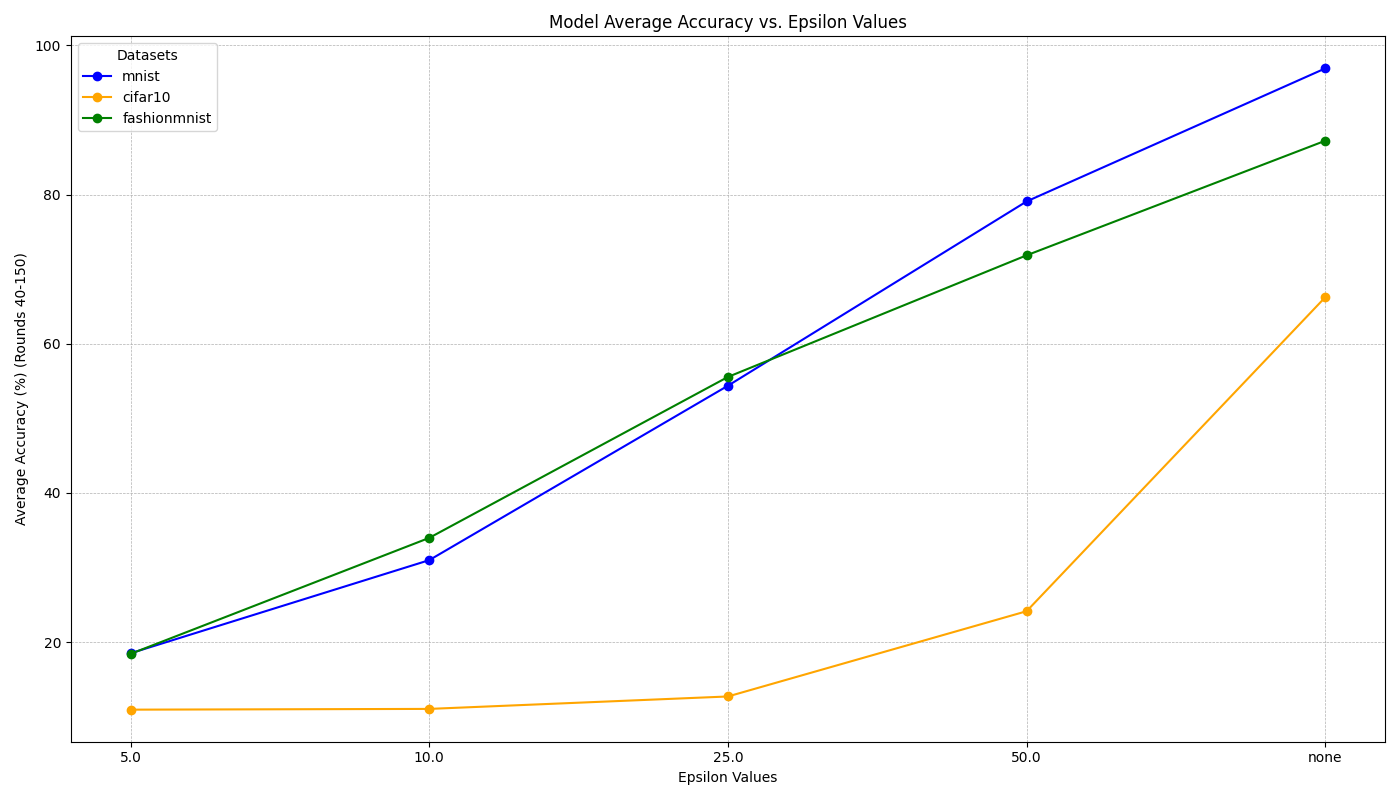
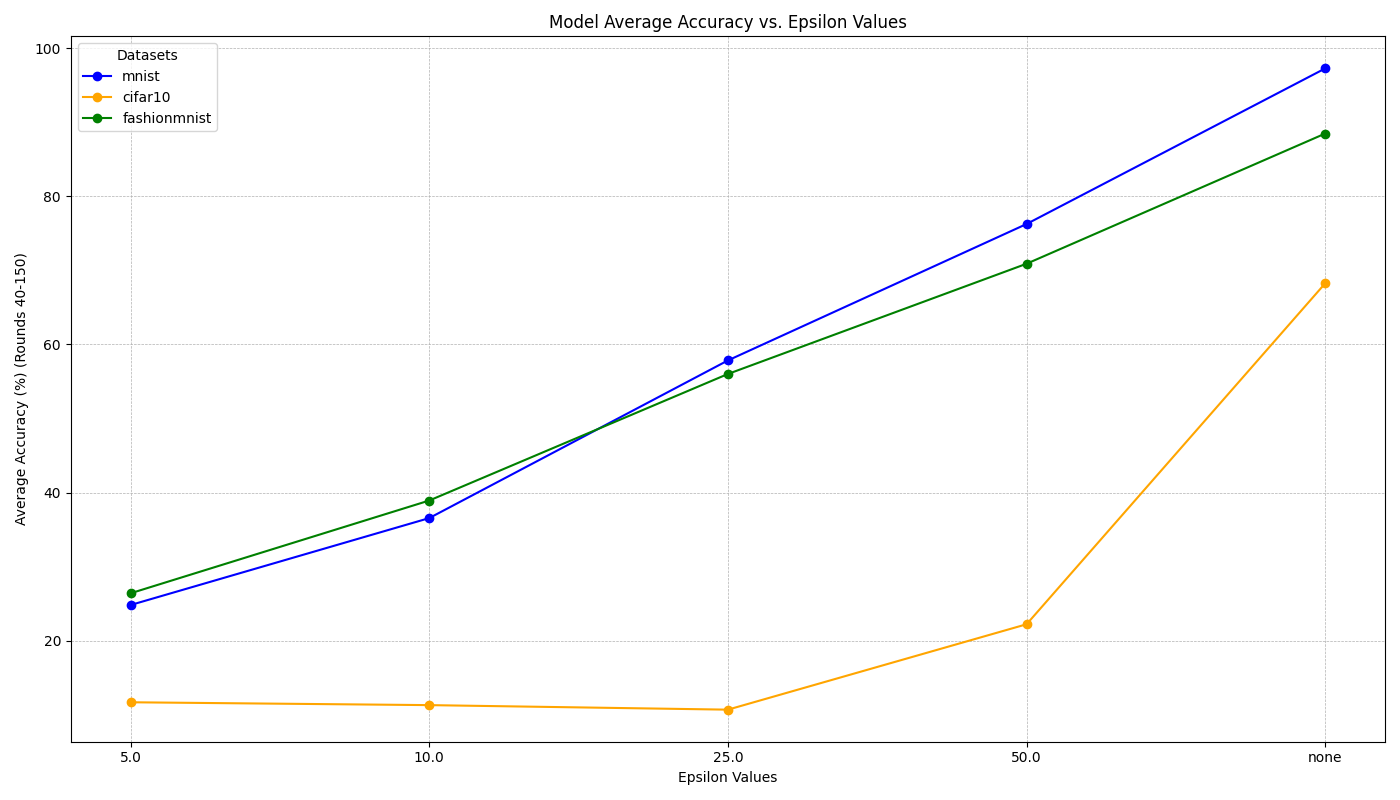
Graphs from individual dataset and average graph of all datasets

diff --git a/graph_individual_dataset.py b/graph_individual_dataset.py
@@ -1,0 +1,60 @@
+import os
+import csv
+import matplotlib.pyplot as plt
+import numpy as np
+
+# Define the directory containing the CSV files
+log_dir = './log'
+
+# Define the datasets (models) and epsilon values to plot
+datasets = ["mnist", "cifar10", "fashionmnist"]
+epsilon_values = ["5.0", "10.0", "25.0", "50.0", "none"]
+
+# Initialize a dictionary to hold accuracy data
+# Structure: {dataset: {epsilon: {round: accuracy}}}
+accuracy_data = {dataset: {epsilon: {} for epsilon in epsilon_values} for dataset in datasets}
+
+# Define the range of rounds to consider for averaging
+start_round = 0
+end_round = 150
+
+# Populate the accuracy_data dictionary
+for dataset in datasets:
+    for epsilon in epsilon_values:
+        csv_filename = os.path.join(log_dir, f"{dataset}_accuracy_epsilon_{epsilon}.csv")
+        try:
+            with open(csv_filename, mode='r') as file:
+                reader = csv.DictReader(file)
+                if 'Round' not in reader.fieldnames or 'Accuracy' not in reader.fieldnames:
+                    print(f"CSV file '{csv_filename}' is missing required columns. Skipping...")
+                    continue
+                for row in reader:
+                    try:
+                        round_num = int(row['Round'])
+                        accuracy = float(row['Accuracy'])
+                        if start_round <= round_num <= end_round:
+                            accuracy_data[dataset][epsilon][round_num] = accuracy
+                    except ValueError:
+                        print(f"Invalid data in '{csv_filename}': {row}")
+                        continue
+        except Exception as e:
+            print(f"Error reading '{csv_filename}': {e}")
+
+# New graphing function to plot each dataset individually
+for dataset in datasets:
+    plt.figure()
+    for epsilon in epsilon_values:
+        rounds = sorted(accuracy_data[dataset][epsilon].keys())
+        # Filter rounds to include only those that are multiples of 10
+        filtered_rounds = [round for round in rounds if round % 10 == 0]
+        accuracies = [accuracy_data[dataset][epsilon][round] for round in filtered_rounds]
+        plt.plot(filtered_rounds, accuracies, marker='o', label=f"Epsilon {epsilon}")
+
+    plt.xlabel('Rounds')
+    plt.ylabel('Accuracy')
+    plt.title(f'Accuracy vs Rounds for {dataset}')
+    plt.legend()
+    plt.xticks(np.arange(start_round, end_round + 1, 10))
+    plt.grid(True)
+    plt.savefig(f'{dataset}_accuracy.png')
+    plt.close()
